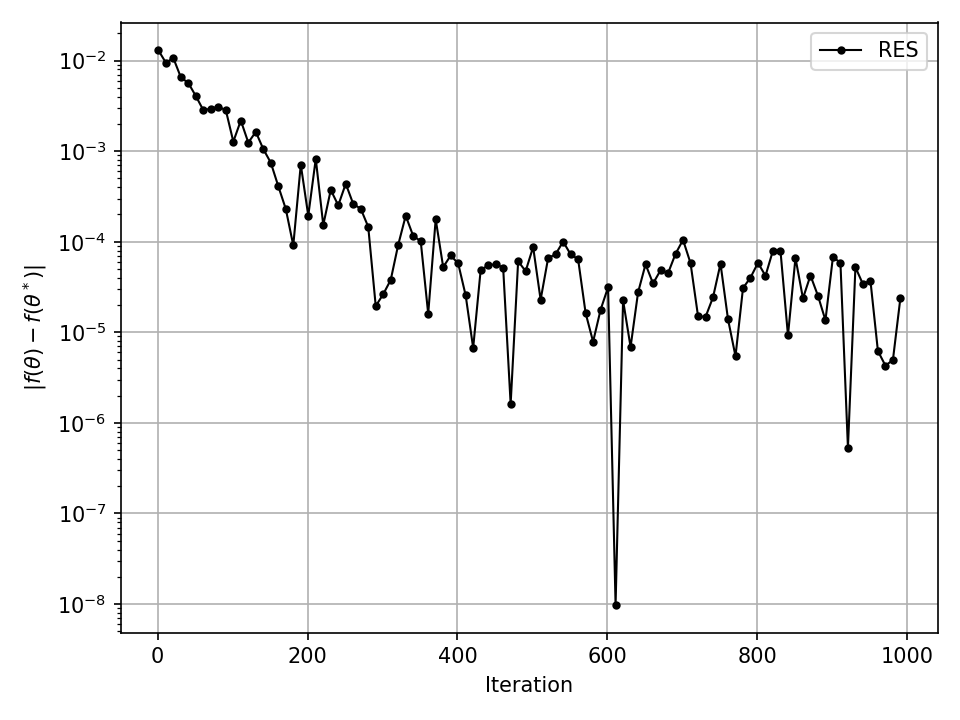
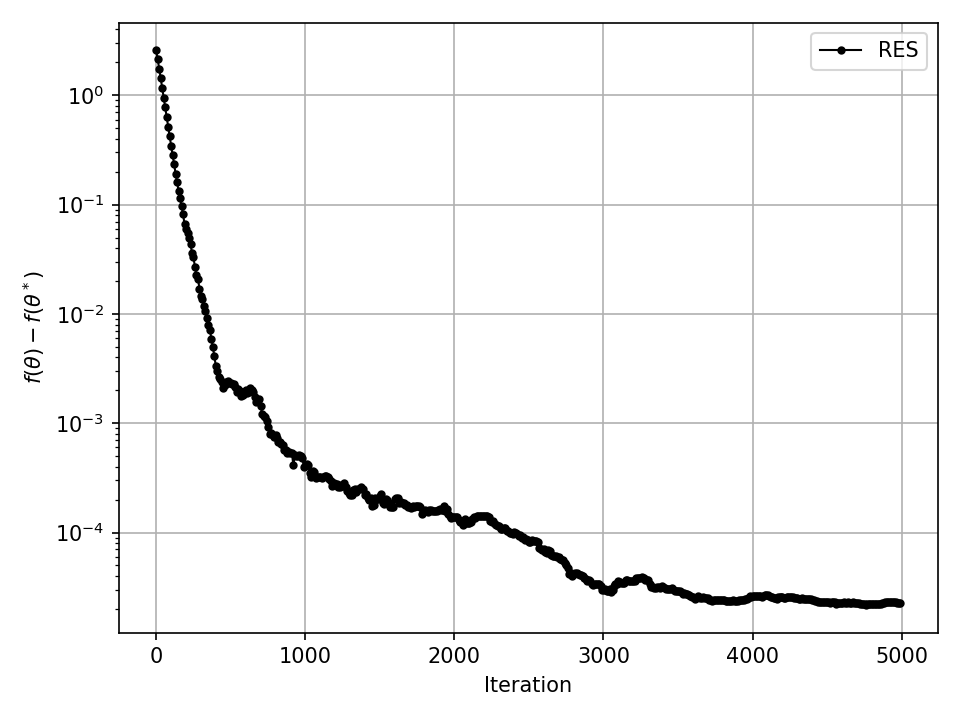
comments plus correct loss

diff --git a/sqn.py b/sqn.py
@@ -21,6 +21,9 @@ class StrongConvex(nn.Module):
 
 class SQN(torch.optim.Optimizer):
     def __init__(self, params, lr, delta, Gamma, Hessian):
+        """
+        Initializes parameters for the optimizer. These get put into the group dictionary.
+        """
         if delta <= 0.0:
             raise ValueError("Invalid eigenvalue bound.")
         defaults = dict(lr=lr, delta=delta, Gamma=Gamma, Hessian=Hessian)
@@ -45,29 +48,36 @@ class SQN(torch.optim.Optimizer):
                 if p.grad is None:
                     continue
                 
+                # state is a dictionary containing the dynamic parameters
                 state = self.state[p]
-                # if len(state) == 0:
-                #     state["step"] = 0
                 state["step"] += 1
 
+                # get the Hessian approximation
                 Hessian = state["Hessian"]
+                # get the update parameters
                 lr = group["lr"]
                 delta = group["delta"]
                 Gamma = group["Gamma"]
 
+                # get the current value of the parameters
                 old_theta = p.data.clone()
+                # closure zeros the gradient, computes a the loss, and returns it
                 closure()
+                # compute current gradient
                 old_grad = p.grad.data.clone()
 
+                # update parameter values
                 theta_update = -lr*(torch.inverse(Hessian) + Gamma*torch.eye(Hessian.size(0)))@old_grad
                 p.data.add_(theta_update)
                 new_theta = p.data.clone()
 
+                # compute new gradient with SAME batch, NEW parameters
                 closure()
                 new_grad = p.grad.data
                 u = new_theta - old_theta
                 v = new_grad - old_grad - delta*u
 
+                # update Hessian approximation, needs optimized
                 Hessian_update = torch.outer(v, v)/torch.dot(u, v) \
                     - torch.outer(torch.mv(Hessian, u), torch.matmul(u.t(), Hessian))/torch.dot(u, torch.mv(Hessian, u)) \
                     + delta*torch.eye(Hessian.size(0))
@@ -76,47 +86,77 @@ class SQN(torch.optim.Optimizer):
         return loss, new_theta
     
 def get_qf(num_dimension, num_terms, rng):
+    """
+    Convenience function to generate the set of matrices and vectors used in the quadratic form of LF1.
+    """
     A, b = [], []
     for i in range(num_terms):
+        # Choose diagonal A so that we can control conditioning and positive definiteness easily
         A.append(np.diag(rng.uniform(1, 5, size=num_dimension)))
         b.append(rng.uniform(-1, 1, size=num_dimension))
     return np.array(A), np.array(b),
 
 def get_exact(A, b):
+    """
+    Computes the exact solution to the minimization of LF1 for a given set of A and b
+    """
     theta = np.linalg.inv(np.sum(A, axis=0))@np.sum(-b, axis=0)
     out = 0
     for i in range(len(A)):
         out += 0.5*theta.T@A[i]@theta + b[i].T@theta
     return out/len(A), theta
 
+def f(X, Y, A, b):
+    """
+    Convenience function for computing LF1 on a mesh grid
+    """
+    out = np.zeros(X.shape)
+    for i in range(X.shape[0]):
+        for j in range(X.shape[1]):
+            theta = np.array([X[i, j], Y[i, j]])
+            temp_out = 0
+            for k in range(len(A)):
+                temp_out += 0.5*theta.T@A[k]@theta + b[k].T@theta
+            out[i, j] = temp_out
+    return out
+
 if __name__ == "__main__":
 
+    # fix seeds for reproducability
     rng = np.random.default_rng(seed=12345)
     torch.manual_seed(12345)
-    d = 2
-    N = 1000
-    n = 5
-    lr = 0.01
-    delta = 0.1
-    Gamma = 1
-    num_epochs = 1000
+    d = 2 # problem dimension
+    N = 1000 # number of data points
+    n = 5 # batch size
+    lr = 0.01 # learning rate
+    delta = 0.1 # eigenvalue bound
+    Gamma = 1 # constant appearing in Hessian update
+    num_epochs = 5000
 
+    # obtain sample of A and b
     A, b = get_qf(d, N, rng)
 
+    # define the loss function/model
     model = StrongConvex(d, N)
     sqn = SQN(model.parameters(), lr=lr, delta=delta, Gamma=Gamma, Hessian=np.eye(d))
     sgd = torch.optim.SGD(model.parameters(), lr=lr)
+    # optimizer chooses which algorithm to use
     optimizer = sqn
+    # scheduler decreases the learning rate by a fraction gamma every step_size
     scheduler = lr_scheduler.StepLR(optimizer, step_size=100, gamma=0.9)
     
     losses = []
+    # thetas logs the parameters at every step
     thetas = []
+    # primary training loop
     for epoch in range(num_epochs):
 
+        # randomly sample a batch of A and b to compute the stochastic gradients
         idxs = rng.choice(N, n, replace=False)
         A_batch = torch.tensor(A[idxs], dtype=torch.float32)
         b_batch = torch.tensor(b[idxs], dtype=torch.float32)
         
+        # closure changes at every step because it's defined for a particular batch
         def closure():
             optimizer.zero_grad()
             loss = model(A_batch, b_batch)
@@ -124,45 +164,48 @@ if __name__ == "__main__":
             return loss
         
         loss, new_theta = optimizer.step(closure=closure)
-        losses.append(loss.item())
         thetas.append(new_theta)
+        # commenting this line is all that's needed to remove the effect of the scheduler
         scheduler.step()
 
+        # print loss every few epochs
         if (epoch+1) % 10 == 0:
             print(f"Epoch [{epoch+1}/{num_epochs}], Loss: {loss.item():.5f}")
     thetas = np.array(thetas)
+
+    # show the exact solution
     solution, theta = get_exact(A, b)
     print(f"Analytical solution: {solution}\n{theta}")
-    
-    def f(X, Y, A, b):
-        out = np.zeros(X.shape)
-        for i in range(X.shape[0]):
-            for j in range(X.shape[1]):
-                theta = np.array([X[i, j], Y[i, j]])
-                temp_out = 0
-                for k in range(len(A)):
-                    temp_out += 0.5*theta.T@A[k]@theta + b[k].T@theta
-                out[i, j] = temp_out
-        return out
 
-    x = np.linspace(-1, 1, 50)
-    y = np.linspace(-1, 1, 50)
+    # create a contour plot for the 2D case
+    x = np.linspace(-1, 1, 25)
+    y = np.linspace(-1, 1, 25)
     X, Y = np.meshgrid(x, y)
     Z = f(X, Y, A, b)
     fig, ax = plt.subplots()
     contour = ax.contourf(X, Y, Z, 50)
     fig.colorbar(contour)
     ax.plot(thetas[::10, 0], thetas[::10, 1], "k.-", lw=1)
+    ax.set_xlabel(r"$\theta_1$")
+    ax.set_ylabel(r"$\theta_2$")
     fig.tight_layout()
     fig.savefig("contour.png", dpi=150)
 
-    print(np.mean(losses[800:]))
-    errors = np.abs(losses - solution)
+    # computes the true losses given the parameter values at each step
+    for i in range(len(thetas)):
+        theta = thetas[i]
+        out = 0
+        for j in range(len(A)):
+            out += 0.5*theta.T@A[j]@theta + b[j].T@theta
+        losses.append(out/len(A))
+
+    # primary plot, shows convergence of excess error vs iteration
+    errors = losses - solution
     k = np.arange(1, num_epochs + 1)
     fig, ax = plt.subplots()
     ax.semilogy(k[::10], errors[::10], "k.-", lw=1, label="RES")
     ax.set_xlabel("Iteration")
-    ax.set_ylabel(r"$|f(\theta) - f(\theta^*)|$")
+    ax.set_ylabel(r"$f(\theta) - f(\theta^*)$")
     ax.grid()
     ax.legend()
     fig.tight_layout()
